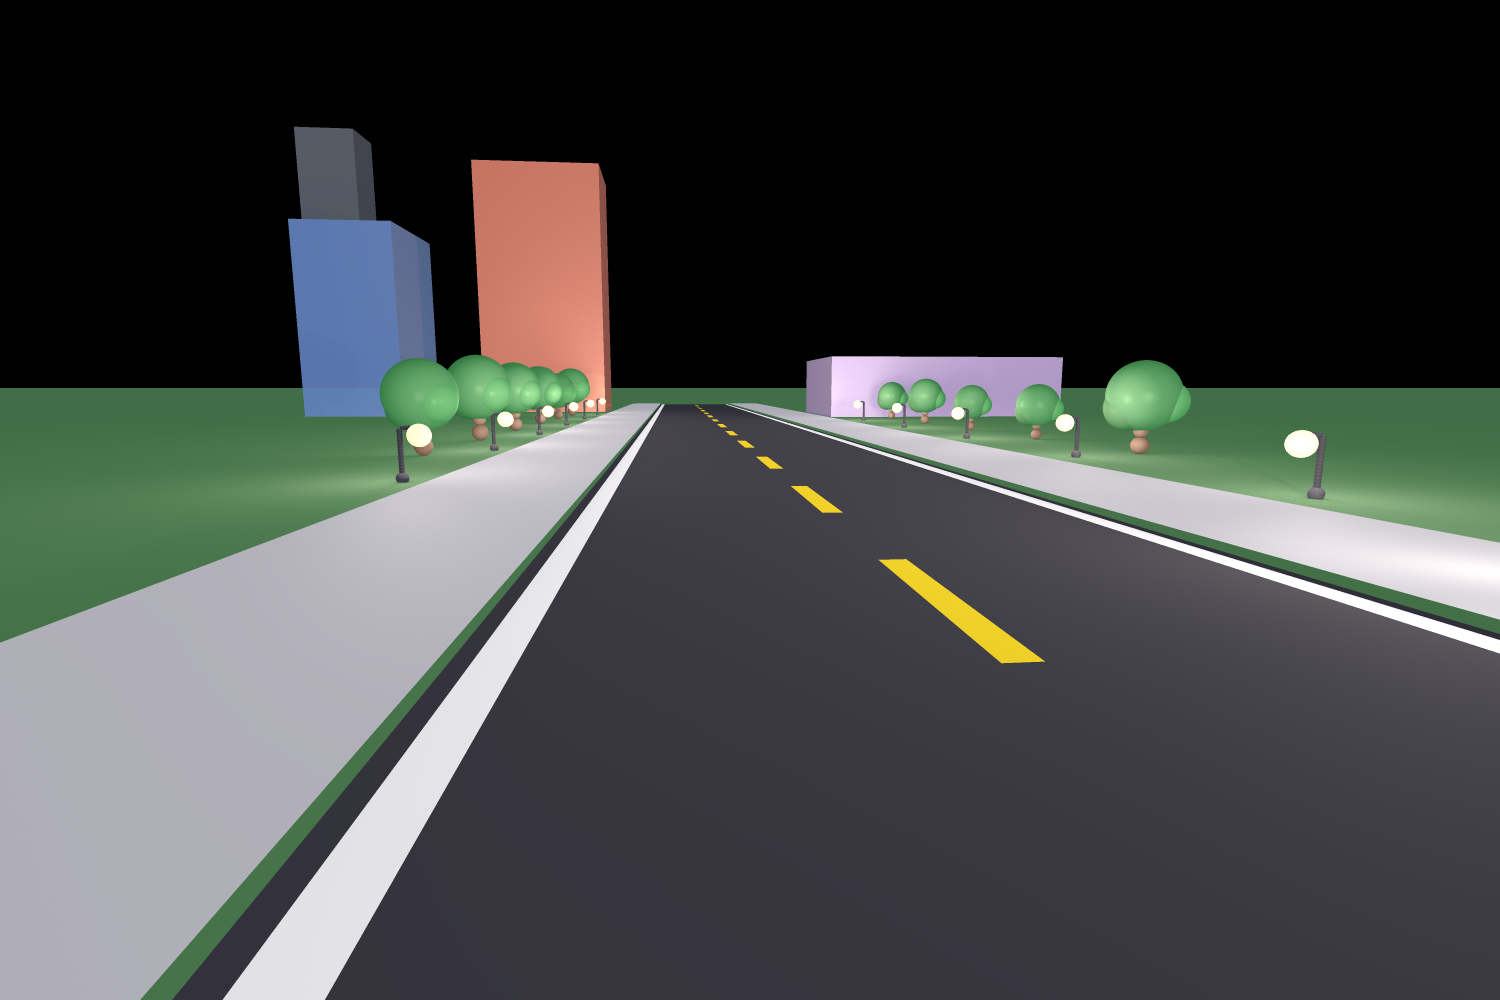
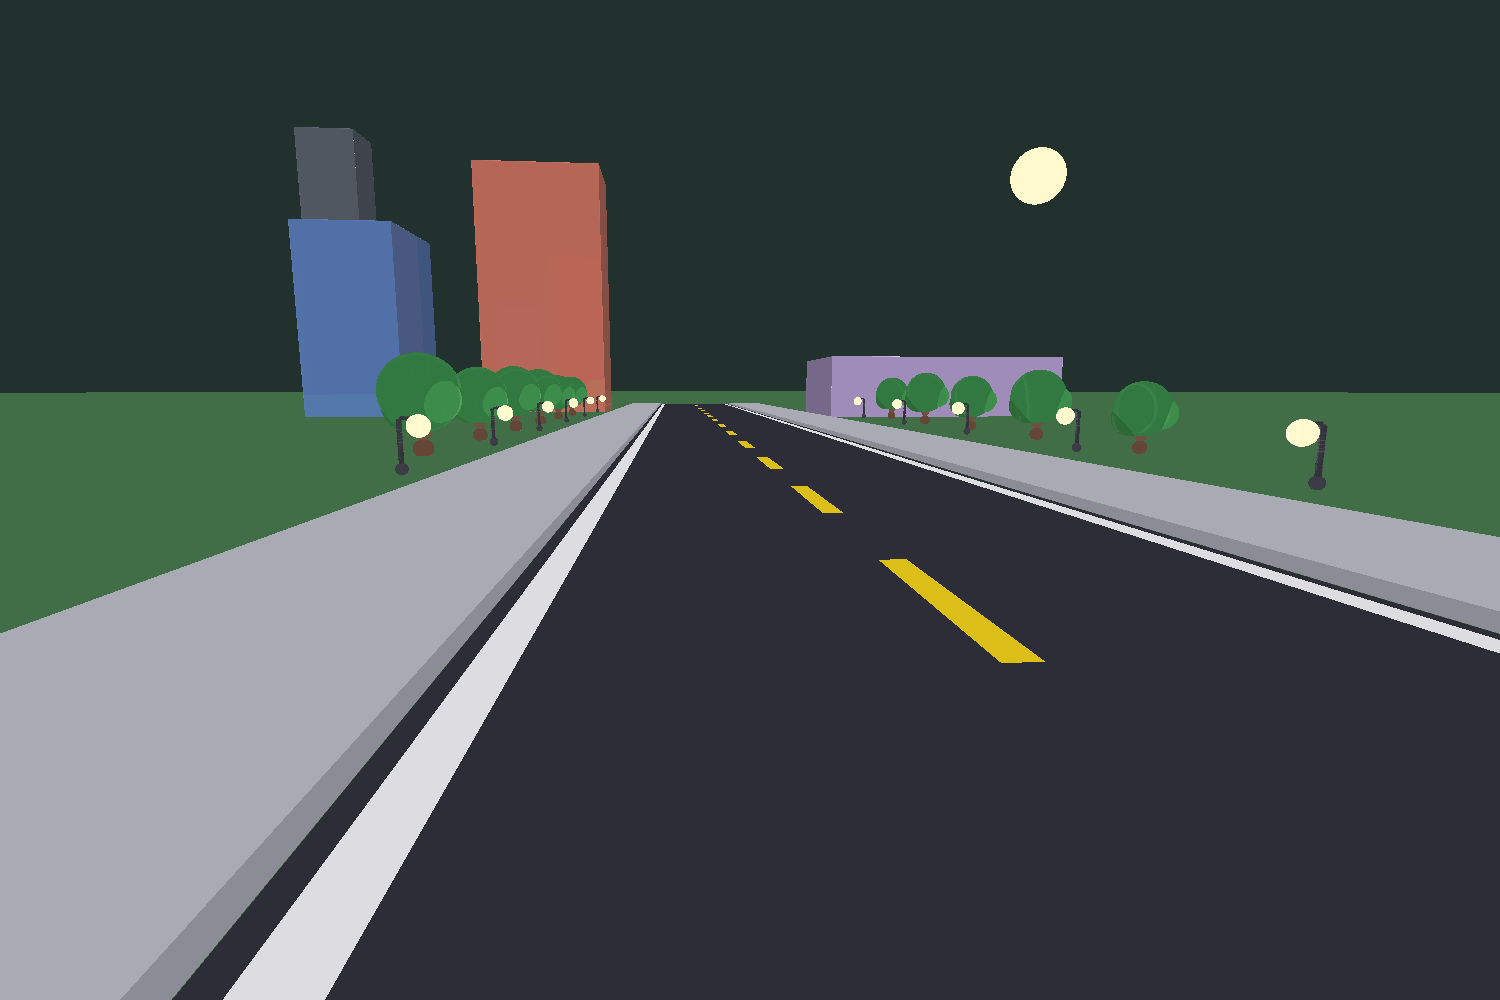
fix moon

diff --git a/unittests/renderer/StreetSceneTest.java b/unittests/renderer/StreetSceneTest.java
@@ -73,30 +73,46 @@ public class StreetSceneTest {
                 .setEmission(new Color(200, 200, 200))
                 .setMaterial(new Material().setKD(0.8).setKS(0.2).setShininess(25)));
 
-        // Sidewalks
+        // Sidewalks - lowered height from 2.0 to 1.2
         geometries.add(new Polygon(
-                new Point(-45, 0.8, 200),
-                new Point(-25, 0.8, 200),
-                new Point(-25, 0.8, -500),
-                new Point(-45, 0.8, -500))
+                new Point(-45, 1.2, 200),
+                new Point(-25, 1.2, 200),
+                new Point(-25, 1.2, -500),
+                new Point(-45, 1.2, -500))
                 .setEmission(new Color(150, 150, 155))
                 .setMaterial(new Material().setKD(0.7).setKS(0.3).setShininess(40)));
         geometries.add(new Polygon(
-                new Point(25, 0.8, 200),
-                new Point(45, 0.8, 200),
-                new Point(45, 0.8, -500),
-                new Point(25, 0.8, -500))
+                new Point(25, 1.2, 200),
+                new Point(45, 1.2, 200),
+                new Point(45, 1.2, -500),
+                new Point(25, 1.2, -500))
                 .setEmission(new Color(150, 150, 155))
                 .setMaterial(new Material().setKD(0.7).setKS(0.3).setShininess(40)));
 
+// Curbs - adjusted to match new sidewalk height
+        geometries.add(new Polygon(
+                new Point(-25, 0.12, 200),
+                new Point(-25, 1.2, 200),
+                new Point(-25, 1.2, -500),
+                new Point(-25, 0.12, -500))
+                .setEmission(new Color(120, 120, 125))
+                .setMaterial(new Material().setKD(0.8).setKS(0.2).setShininess(30)));
+
+        geometries.add(new Polygon(
+                new Point(25, 0.12, 200),
+                new Point(25, 1.2, 200),
+                new Point(25, 1.2, -500),
+                new Point(25, 0.12, -500))
+                .setEmission(new Color(120, 120, 125))
+                .setMaterial(new Material().setKD(0.8).setKS(0.2).setShininess(30)));
         // ===== Trees =====
         double[] leftTreeZ = {-80, -120, -160, -200, -240, -280};
         for (double zPos : leftTreeZ) {
-            createTree(geometries, new Point(-60, 0, zPos), 1.0 + Math.random() * 0.3);
+            createTree(geometries, new Point(-60, 1.2, zPos), 1.0 + Math.random() * 0.3);
         }
         double[] rightTreeZ = {-70, -110, -150, -190, -230, -270, -310};
         for (double zPos : rightTreeZ) {
-            createTree(geometries, new Point(70, 0, zPos), 0.8 + Math.random() * 0.4);
+            createTree(geometries, new Point(70, 1.2, zPos), 0.8 + Math.random() * 0.4);
         }
 
         // ===== Buildings (No Windows) =====
@@ -111,9 +127,39 @@ public class StreetSceneTest {
         for (int i = 0; i < 6; i++) {
             double zLeft  = -40 - i * 50;
             double zRight = zLeft + 25;
-            createStreetLamp(geometries, new Point(-50, 0, zLeft));
-            createStreetLamp(geometries, new Point( 55, 0, zRight));
+            // Add 1.2 to y-coordinate to position lamps on the sidewalk
+            createStreetLamp(geometries, new Point(-50, 1.2, zLeft));
+            createStreetLamp(geometries, new Point( 55, 1.2, zRight));
         }
+
+        // Moon sphere moved further right and with enhanced emission
+        geometries.add(new Sphere(new Point(400, 250, -800), 30) // Moved further right, slightly smaller
+                .setEmission(new Color(255, 230, 180)) // EXACT SAME emission as street lamp light spheres!
+                .setMaterial(new Material().setKD(0.7).setKS(0.3).setShininess(10))); // Same material as street lamps
+
+
+        // Enhanced moon light with much stronger intensity
+        scene.lights.add(
+                new PointLight(new Color(800, 750, 500), new Point(400, 250, -800))
+                        .setKl(0.0000005).setKq(0.00000001) // Extremely low attenuation
+                        .setRadius(15.0).setNumSamples(1) // Wider radius
+        );
+
+
+        // Sky background - much higher diffuse coefficient
+        geometries.add(new Sphere(new Point(0, 0, -1000), 2000)
+                .setEmission(new Color(2, 2, 8)) // Darker blue to show light better
+                .setMaterial(new Material()
+                        .setKD(0.7)    // Much higher diffuse coefficient
+                        .setKS(0.4)    // Reduced specular to let diffuse dominate
+                        .setKR(0.3)    // Keep reflection coefficient
+                        .setKT(0.0)    // No transparency
+                        .setShininess(10))); // Lower shininess for broader light effect
+
+
+
+
+
 
         scene.geometries.add(geometries.toArray(new Intersectable[0]));
 
@@ -129,12 +175,12 @@ public class StreetSceneTest {
             scene.lights.add(
                     new PointLight(new Color(100, 90, 80), new Point(-50, 8, zLeft))
                             .setKl(0.001).setKq(0.0005)
-                            .setRadius(10.0).setNumSamples(81)
+                            .setRadius(10.0).setNumSamples(1)
             );
             scene.lights.add(
                     new PointLight(new Color(100, 90, 80), new Point(55, 8, zRight))
                             .setKl(0.001).setKq(0.0005)
-                            .setRadius(10.0).setNumSamples(81)
+                            .setRadius(10.0).setNumSamples(1)
             );
         }
 
@@ -142,17 +188,17 @@ public class StreetSceneTest {
         scene.lights.add(
                 new PointLight(new Color(80, 70, 60), new Point(-150, 40, -295))
                         .setKl(0.0003).setKq(0.00015)
-                        .setRadius(1.5).setNumSamples(81)
+                        .setRadius(1.5).setNumSamples(1)
         );
         scene.lights.add(
                 new PointLight(new Color(80, 70, 60), new Point(-80, 60, -350))
                         .setKl(0.0003).setKq(0.00015)
-                        .setRadius(1.5).setNumSamples(81)
+                        .setRadius(1.5).setNumSamples(1)
         );
         scene.lights.add(
                 new PointLight(new Color(120, 110, 100), new Point(35, 6, 20))
                         .setKl(0.0005).setKq(0.0003)
-                        .setRadius(1.0).setNumSamples(81)
+                        .setRadius(1.0).setNumSamples(1)
         );
 
         // ===== Camera Setup with Multithreading, Logging & AA =====
@@ -165,9 +211,9 @@ public class StreetSceneTest {
                 .setMultithreading(-2)
                 .setDebugPrint(1.0)
                 .build();
-        // Enable 9×9 grid super-sampling
+        // Enable 9×9 grid super-sampling 81 samples per pixel
         camera.setSamplingConfig(new SamplingConfig(
-                81, TargetShape.RECTANGLE, SamplingPattern.GRID
+                1, TargetShape.RECTANGLE, SamplingPattern.GRID
         ));
 
         System.out.println("Available processors: " + Runtime.getRuntime().availableProcessors());
@@ -234,17 +280,21 @@ public class StreetSceneTest {
      */
     private void createTree(List<Intersectable> geometries, Point pos, double scale) {
         double x = pos.getX(), y = pos.getY(), z = pos.getZ();
-        geometries.add(new Sphere(new Point(x, y + 1.5 * scale, z), 1.5 * scale)
+
+        // Lower the trunk position to start from the ground
+        geometries.add(new Sphere(new Point(x, y + 0.0 * scale, z), 1.5 * scale)
                 .setEmission(new Color(80,50,30)).setMaterial(new Material().setKD(0.8).setKS(0.1).setShininess(15)));
-        geometries.add(new Sphere(new Point(x, y + 4.0 * scale, z), 1.2 * scale)
+        geometries.add(new Sphere(new Point(x, y + 2.5 * scale, z), 1.2 * scale)
                 .setEmission(new Color(90,60,40)).setMaterial(new Material().setKD(0.8).setKS(0.1).setShininess(15)));
-        geometries.add(new Sphere(new Point(x, y + 5.0 * scale, z), scale)
+        geometries.add(new Sphere(new Point(x, y + 3.5 * scale, z), scale)
                 .setEmission(new Color(100,70,50)).setMaterial(new Material().setKD(0.8).setKS(0.1).setShininess(15)));
-        geometries.add(new Sphere(new Point(x, y +10.0 * scale, z), 6.0 * scale)
+
+        // Lower the foliage by the same amount (1.5 scale units)
+        geometries.add(new Sphere(new Point(x, y + 8.5 * scale, z), 6.0 * scale)
                 .setEmission(new Color(30,100,40)).setMaterial(new Material().setKD(0.7).setKS(0.3).setShininess(25)));
-        geometries.add(new Sphere(new Point(x - 2*scale, y + 8.0 * scale, z - 1*scale), 4.0 * scale)
+        geometries.add(new Sphere(new Point(x - 2*scale, y + 6.5 * scale, z - 1*scale), 4.0 * scale)
                 .setEmission(new Color(25,85,30)).setMaterial(new Material().setKD(0.7).setKS(0.3).setShininess(25)));
-        geometries.add(new Sphere(new Point(x + 3*scale, y + 9.0 * scale, z + 2*scale), 3.5 * scale)
+        geometries.add(new Sphere(new Point(x + 3*scale, y + 7.5 * scale, z + 2*scale), 3.5 * scale)
                 .setEmission(new Color(40,120,50)).setMaterial(new Material().setKD(0.7).setKS(0.3).setShininess(25)));
     }
 
